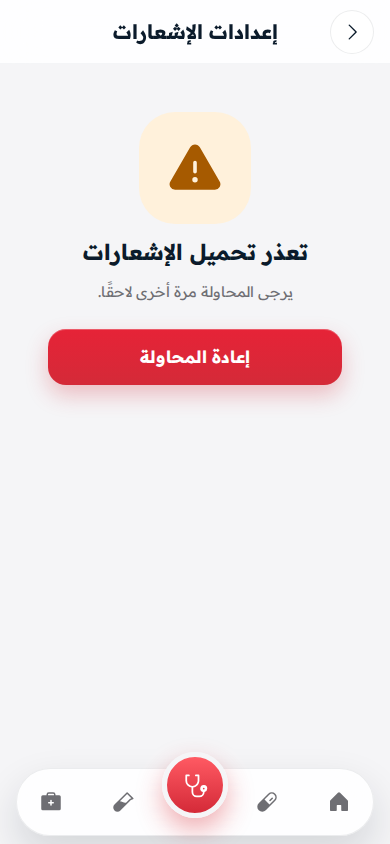
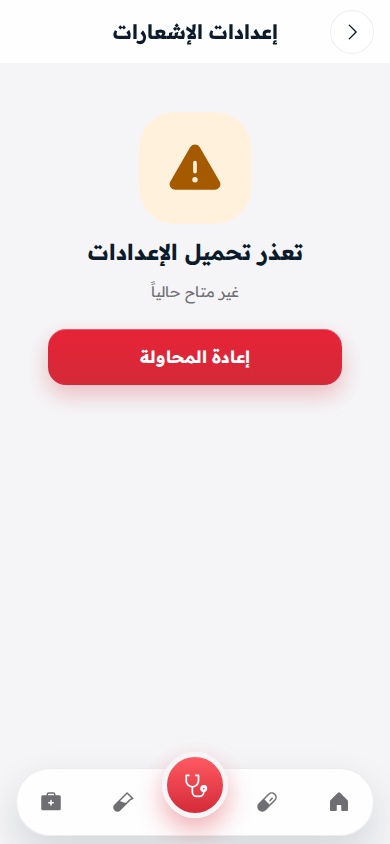
[DESIGN] Batch 0: runtime check results, Needs review (98), settings error copy, PROGRESS
Claude-Session: https://claude.ai/code/session_01DQMSZ7GTMCFr1YrcwBfzDM

Changed region(s): [[0.2154, 0.2773, 0.8, 0.3697]]

diff --git a/patient-web/app/[locale]/notifications/settings/page.tsx b/patient-web/app/[locale]/notifications/settings/page.tsx
@@ -29,7 +29,7 @@ export default async function NotificationSettingsPage({ params }: Props) {
   const back = `/${locale}/notifications`;
   const failed = (
     <CoreShell locale={locale} title={s("title")} backHref={back} width="narrow">
-      <RetryErrorState title={t("unavailableTitle")} body={t("unavailable")} retryLabel={routeState("retry")} />
+      <RetryErrorState title={s("unavailableTitle")} body={s("unavailable")} retryLabel={routeState("retry")} />
     </CoreShell>
   );
   let response: Response;

diff --git a/docs/design/WIRING_REPORT.md b/docs/design/WIRING_REPORT.md
@@ -1,10 +1,10 @@
 # Wiring report — screens ↔ API, and design foundation
 
-> Generated by `node tools/design/screen-inventory.mjs` at commit `2e2370b2`. Do not edit by hand.
+> Generated by `node tools/design/screen-inventory.mjs` at commit `a1f15da0`. Do not edit by hand.
 > Read at the start of every design session together with `PROGRESS.md` and `SCREEN_INVENTORY.md`. A screen is rebuilt on real API data only (handoff §1, §6): any row below that is not `OK` must be fixed or the UI element hidden — never faked.
 
 - **Unresolved calls (built from variables):** patient-app 0, patient-web 0 (section 3b)
-- **Needs review:** 91 open items (section 7)
+- **Needs review:** 98 open items (section 7)
 - **Mock / placeholder hits (heuristic):** 16, of which Batch 0: 0 (section 6)
 - **Per-screen element audits:** [`docs/design/audit/`](audit/) (`batch-0-web.md`, `batch-0-app.md`: every element of a screen against its board and its data source)
 
@@ -251,13 +251,14 @@ None found.
 
 ## 7. Needs review
 
-91 open items, merged from `docs/design/needs-review/*.json` (format in that folder's README). These are things an agent found while rebuilding or auditing a screen and could not settle from the client code. **The reviewer session verifies each one and fixes backend gaps; a design session only reports.** Per-screen element audits are in [`docs/design/audit/`](audit/).
+98 open items, merged from `docs/design/needs-review/*.json` (format in that folder's README). These are things an agent found while rebuilding or auditing a screen and could not settle from the client code. **The reviewer session verifies each one and fixes backend gaps; a design session only reports.** Per-screen element audits are in [`docs/design/audit/`](audit/).
 
 
 ### Batch 0 — patient-app
 
 | Screen | Element | file:line | What was found | What is suspected |
 |---|---|---|---|---|
+| `/` | GET /home/upcoming-appointment with no appointment | `backend/src/modules/home/home.controller.ts` | Runtime check against the seeded backend: the endpoint answers 200 with an empty body (not JSON, not null) when the patient has no upcoming appointment. The web dashboard copes; whether the app's apiFetch handles an empty 200 body without throwing was not run (the app was not executed). | A 200 with no body breaks clients that call res.json(). Suggest `null` or 204, and confirm apiFetch tolerates it. |
 | `/` | Next appointment card: doctor name | `backend/src/modules/home/home.service.ts:74` | getUpcomingAppointment reads the doctor name from provider_profiles with doctorName = prov?.name \|\| ''. The provider profile schema declares no top-level name (name_ar, name_en, display_name_ar, display_name_en: backend/src/schemas/provider-profile.schema.ts:25-26,215-216; the only 'name' is inside the facility roster sub-schema, line 144). The result is null, and Home hides the doctor line when it is null. The same field is read in getOffers (line 41) and the package search (lines 156) for provider names. | Unsure whether older documents hold a name field; by the schema the card never shows the doctor. Read display_name_ar / name_ar (backend). |
 | `/` | Home data blocks without a session | `patient-app/app/(tabs)/index.tsx:67` | Home calls 7 endpoints (GET /users/me/profile, /health/reminders, /nutrition/daily-summary, /maternity/profile, /mental-health/mood?days=1, /health/vitals/summary, /home/upcoming-appointment). All are JWT-only (JwtAuthGuard, no @Public: e.g. backend/src/modules/home/home.controller.ts:5, health.controller.ts:8) and the guard answers 401 'Missing token' without a token (backend/src/common/auth.guard.ts, the !token branch). The splash sends everyone to /(tabs) without creating a session; a guest session exists only after the Welcome guest link (POST /auth/guest, welcome.tsx:71), a login or a register. | On a first launch every Home call fails, the warning banner 'تعذر تحميل بعض بيانات اليوم' shows, and no greeting name, reminder, appointment or records appear. Only /content/home (public) works. Needs the launch routing decision (silent guest session, or send the user to Welcome). |
 | `/` | Greeting card name (and avatar initial) | `patient-app/app/(tabs)/index.tsx:95` | The name is taken from GET /users/me/profile fields full_name, name, display_name. The endpoint returns the patient_profiles document (backend/src/modules/users/users.service.ts:95-101). The schema has full_name (backend/src/schemas/patient-profile.schema.ts:22) but no name or display_name, and registration creates that document with only user_id (backend/src/modules/auth/auth.service.ts:549, also 837 and 1108 for guest and social), so the name typed at registration is stored on the user record only. GET /users/me/display returns display_name from the user record (users.service.ts:123-132) but Home does not call it. | A registered patient is greeted without a name until the profile is edited elsewhere. Read the name from GET /users/me/display (display_name), or have registration write full_name to the patient profile (backend). |
@@ -279,6 +280,7 @@ None found.
 | `/login` | Submit button: failed login clears the stored session | `patient-app/utils/api.ts:95` | login.tsx calls POST /auth/login through utils/api.ts apiFetch without skipAuth. A 401 from the login itself (wrong password: 'Invalid credentials', backend auth.service.ts:564-571) runs clearStoredSession(), which deletes the access token, refresh token and user data from SecureStore (utils/api.ts:37-41,95-97). The request also carries the existing guest token as Authorization. | A mistyped password signs out the current guest session. Pass skipAuth: true for /auth/login, /auth/guest and /auth/social-login. |
 | `/notifications` | Row title and body language | `backend/src/modules/notifications/notifications.service.ts:407` | listForUser resolves title_key and body_key with lang = user?.lang \|\| 'ar'. The access token carries no lang (signToken, backend/src/modules/auth/auth.service.ts:51), nothing else sets req.user.lang (grep), and the app sends no language to GET /notifications. The notifications screen comment says the text is 'already in the user's language'. | Every notification is returned in Arabic whatever the app language. Pass the app language (query or Accept-Language) to the endpoint, or put lang in the session. |
 | `/notifications` | Row icon and filter group by notification type | `backend/src/modules/notifications/notifications.service.ts:694` | The client maps type to icon and filter group (src/utils/notificationsFeed.ts:39-49). The backend writes appointment created, confirmed and completed (lines 694, 704, 716) and report-ready (667) with type INFO, although the enum has APPOINTMENT and PRESCRIPTION (backend/src/common/enums.ts:172-181). The client's 'labs' key is not in the enum, so it never occurs. | Appointment notifications show the info icon and land in the 'تحديثات' chip instead of 'طبي'. Write the specific type in the backend, and drop 'labs' from the map. |
+| `/notifications` | Populated states not exercised | `docs/design/audit/runtime-batch-0-app.md` | The seeded patient has no notifications, reminders, mood entries or appointments, so the runtime check only shows these lists in their empty state (all 2xx). The populated rendering with real rows was not verified at runtime. | The reviewer's seed should add at least one notification, reminder and appointment for the test patient so populated states can be checked. |
 | `/notifications` | GET /notifications without a session | `patient-app/app/notifications/index.tsx:114` | The controller is JWT-only (backend/src/modules/notifications/notifications.controller.ts:9). Without a token the call answers 401 and the screen shows 'تعذر تحميل الإشعارات' with a retry. | Same cause as the Home and Search items: no session after the splash. The error state says the connection is the problem. |
 | `/notifications` | Row tap: routes the app cannot translate do nothing | `patient-app/app/notifications/index.tsx:152` | openNotif pushes only when translateBackendRoute(n.route) returns a target (src/hooks/usePushNotifications.ts:33-77); otherwise the row is marked read and nothing happens (no inbox fallback, unlike routeFromNotificationData). Routes the backend writes that the translator returns null for: /wallet/hub (backend/src/modules/notifications/notifications.service.ts:1093,1120), /family/permission-request (956), /reports/:id for 'report ready' (667), /community/post-detail?id=... (1046; the query is stripped and the path is not in the verbatim list), and the engagement nudges' generic /${kind}/${ref_id} (backend/src/modules/engagement/engagement.controller.ts:135). Two of those targets have an app file (family/permission-request, community/post-detail); /wallet/hub and /reports/:id have none (route check over app/). | Tapping these notifications only marks them read. Add the routes to the translator, create the wallet screen or change the backend route. |
 | `/notifications` | Row tap: results and reports param name | `patient-app/src/hooks/usePushNotifications.ts:63` | /health/results/:id and /health/reports/:id are translated to /reports/view-report with params {reportId}. app/reports/view-report.tsx reads params.id (lines 65-71) and shows its error state when it is missing. | Wrong param name: lab-result and report notifications open an error screen. Pass id. |
@@ -299,6 +301,7 @@ None found.
 
 | Screen | Element | file:line | What was found | What is suspected |
 |---|---|---|---|---|
+| `/` | Doctor names in the seeded data | `backend/src/modules/seed/seed.data.ts:76` | GET /doctors on the seeded backend returns records with name_en: null (the seed sets Arabic names only). | English and other locales fall back to the Arabic name. Seed data gap, not a screen bug. |
 | `/` | Error state of every Batch 0 route (error.tsx) | `patient-web/app/[locale]/error.tsx:9` | Inline style attributes with raw colours (#FDFDFC, #E8EDEE, #FF4D5A, #1E332E, #6B7C6E, #5FD9B3, rgba values) and backdrop blur on <main>, the card, the icon, the title and both buttons. | Breaks the identity rule (colours not from tokens) and QUALITY_STANDARDS §0/§4 (no style attributes). proxy.ts:40-53 sets style-src 'self' 'nonce-…' in production, so the inline styles are probably refused and the error card renders unstyled. Needs the same token-based treatment as the new screens. |
 | `/` | Maintenance state and footer copy | `patient-web/app/[locale]/page.tsx:67` | The title and fallback message are ar/en literals; the message shown is app_versions.apps.web.message_en first, then message_ar, whatever the locale (public-config-server.ts:10-14). Only `/` honours the flag (login, dashboard, search do not). The layout footer links (layout.tsx:99-103) are ar/en literals too. | Arabic visitors see the English admin message when both are set; ur/hi/bn/fil get English/Arabic only; maintenance does not block the rest of the web app. |
 | `/` | Hero search form (also on /dashboard) and the JSON-LD SearchAction | `patient-web/components-next/home/home-parts.tsx:44` | <form action='/{locale}/search' method='get'> sends ?q=…, but the search page (search/page.tsx:9-15, search-client.tsx:86 `useState("")`) never reads searchParams and the route requires a session (requirePatientAccess). The SearchAction target in page.tsx:86-90 is the same URL. | The home search box cannot run the search the user typed, and on the public home a signed-out visitor is sent to /login with the text lost. The search page should read q (and be public or carry the query through login). |
@@ -310,6 +313,7 @@ None found.
 | `/dashboard` | Next-appointment card: time and status | `backend/src/modules/home/home.service.ts:76` | getUpcomingAppointment returns {id, date:'YYYY-MM-DD', doctorName, type, time} where time is toLocaleTimeString('ar-EG') in the server's time zone (home.service.ts:55-83). The web parser (lib/api/dashboard.ts:24-29) takes `date` as the timestamp, so new Date('2026-10-06') is UTC midnight and home-parts.tsx:63-68 prints a time from it; `status` is read from a field the endpoint never returns; `time` and `type` are ignored. | The card shows an invented time (midnight in some zone) and the day can shift with the time zone. The endpoint should return the ISO slot_start (plus status and service_type) and the web should format it in the page locale / Asia/Riyadh. |
 | `/dashboard` | Sign-out (missing on all home-shell and core-shell screens) | `patient-web/app/[locale]/layout.tsx:90` | The only sign-out (SessionActions → POST /api/auth/logout, session-actions.tsx:12-18) sits in the layout .topbar, which globals.css:575,582,590 hides on the auth, home and core shells. HomeShell/CoreShell draw no sign-out; the avatar goes to /profile. Backend POST /auth/logout (backend auth.controller.ts:277-286) only clears an admin cookie and does not revoke the refresh session. | A signed-in user has no sign-out on /, /dashboard, /search, /notifications, /notifications/settings. Confirm /profile offers one (not audited here) or add it; the backend logout should also revoke the refresh session. |
 | `/dashboard` | Hero title (patient name) | `patient-web/lib/api/dashboard-server.ts:5` | The name comes from GET /users/me/profile, which returns the whole patient profile document (allergies, chronic diseases, national id…), read as name\|full_name\|fullName (dashboard.ts:15). Only registerPatientContract writes full_name on the patient profile (backend auth.service.ts:473-478); the other creation paths create it with user_id only (auth.service.ts:549, 837, 1108), and getPatientProfile creates an empty profile when missing (backend users.service.ts:95-101). The authoritative name is users.full_name, served as display_name by GET /users/me/display (users.service.ts:123-133). | Guest, social-login and legacy-register users see the generic title instead of their name, and the dashboard fetches the full medical profile only for a display name. It should use /users/me/display (minimal DTO). |
+| `/dashboard` | Upstream failure handling | `patient-web/lib/api/dashboard-server.ts:5` | Runtime check with every data GET answering 500: /dashboard still renders (greeting without a name, no appointment card) with no error or retry state, because both calls swallow the failure. The same happens on / (home) for doctors and config. /notifications and /notifications/settings do show the board's error state with retry. | Silent degradation matches the 'hide missing data' rule, but a total outage looks like an account with no data. Owner to decide whether /dashboard should show the error state when its profile call fails. |
 | `/forgot-password` | Submit → success message | `patient-web/components-next/forgot-password-form.tsx:17` | After a 2xx the form shows 'Recovery requested…' only. Backend forgotPatientPassword (backend auth.service.ts:376-398) e-mails 'Your Nabdah Plus password-reset token is <43-char token>. It expires in 60 seconds.' (a plain token, no link). No page, button or redirect links to /password-reset (grep: only robots.ts names it). A phone-only account without an e-mail gets nothing while the UI says success. | The reset flow is a dead end: the user must open /password-reset by hand and paste a token within 60 s. Needs an e-mailed link to /{locale}/password-reset?token=… (with the page reading it) or an on-screen next step, and a longer lifetime. |
 | `/login` | Identifier matching for phone numbers (backend) | `backend/src/modules/auth/auth.service.ts:560` | login() looks a phone up as {phone: identifier} (raw) and an email lower-cased; register/OTP/forgot use normalizeOtpIdentifier = trim + lower-case only (auth.service.ts:176-178, 442). Nothing maps '05…', '+9665…', '009665…' to one form. | The same person typing the number in another format cannot sign in/reset, or can create a duplicate account. Backend gap: no E.164 normalisation and no uniqueness on a normalised phone. |
 | `/login` | Language menu items (LocaleSelector); same component on every Batch 0 screen | `patient-web/components-next/locale-selector.tsx:48` | Each of the 6 language links has href `/${locale}` (that locale's home page). The component only receives `current`; it does not use the current path or query. | Switching language on /login, /register, /otp?identifier=…, /search, /notifications/settings or /dashboard drops the page and lands on the other language's home page. It should keep the current path (swap the locale segment). |
@@ -323,6 +327,7 @@ None found.
 | `/notifications` | Notification title and body language (backend) | `backend/src/modules/notifications/notifications.service.ts:407` | listForUser resolves title/body with `user.lang`; `user` is the decoded JWT, which carries no lang (backend auth.service.ts:52, common/auth.guard.ts:118), so the language is always 'ar'. The web sends no locale. | Notification texts are Arabic in all six web locales. The backend should use the stored preferred_lang or a locale parameter. |
 | `/notifications` | Notification rows and unread dot | `patient-web/app/[locale]/notifications/page.tsx:93` | Rows are <li> with no link, and there is no mark-read or mark-all control; the backend has POST /notifications/:id/read and /read-all (backend notifications.controller.ts:38-48) and each notification carries `action.route`. The unread dot (read === false) can therefore never clear from the web. Notifications.notice ('This list is view-only…') exists in all 6 locales but is not rendered. | Unread state is permanent on web and nothing is tappable. Confirm whether view-only is intended (then say so or hide the dot) or wire read/read-all through the proxy (needs allow-list entries) and open action.route. |
 | `/notifications/settings` | The 9 switches (6 categories, 3 channels) | `backend/src/modules/users/users.service.ts:269` | Toggles PATCH {categories\|channels:{key:bool}} and are stored on the patient profile document (notification_settings). Delivery reads notification_settings from the users collection (backend notifications.service.ts:129-130: quiet_hours only; engagement.controller.ts:105-112: categories.suggestions and quiet_hours) and never consults channels.push/email/sms or the six categories; SMS is retired (notifications.service.ts:162,361) yet shown with default true. | None of the switches changes what the patient receives; the screen saves preferences nothing reads. Delivery must read patient_profiles.notification_settings and skip disabled categories/channels; the SMS switch should be hidden. |
+| `/notifications/settings` | Error state title (fixed in this PR) | `patient-web/app/[locale]/notifications/page.tsx` | Runtime check (error scenario): the settings page showed the notifications list's title 'تعذر تحميل الإشعارات'. Fixed: it now uses NotificationSettings.unavailableTitle in all six locales. | None left; listed so the reviewer knows the copy key was added. |
 | `/onboarding` | Whole screen (entry and outcome) | `patient-web/app/[locale]/onboarding/page.tsx:11` | No link in the web points to /onboarding (grep over app, components-next, lib); /welcome is reached only from the login back button and the onboarding screens; finishing onboarding stores nothing (no flag, no API call). | Onboarding / language / permissions are unreachable in normal navigation and their outcome is unused. Confirm the intended entry (e.g. first visit) before spending design effort on them. |
 | `/onboarding` | Slides, buttons and labels | `patient-web/app/[locale]/onboarding/page.tsx:17` | Slide titles/bodies are ar/en literals (lines 17-27) as are the carousel labels and buttons Next/Continue/Skip (onboarding-carousel.tsx:18-37), the language step (onboarding/language/page.tsx:20-32), the permissions step (onboarding-permissions-client.tsx:33-55) and the back label and hero text of the frame (auth-layout.tsx:22-25,48). Slide 2 ('Book in minutes') uses the lab icon and slide 3 ('Track your health') the pharmacy icon. | ur/hi/bn/fil users get English. Move to messages. The icon/text pairing of slides 2-3 should be checked against the board. |
 | `/onboarding/language` | Continue button (also onboarding-carousel.tsx:33 and onboarding-permissions-client.tsx:54) | `patient-web/app/[locale]/onboarding/language/page.tsx:32` | A <Link> wraps <Button>, which renders a <button> (ui-generated/components/Button.tsx). | Interactive element nested in an anchor (axe nested-interactive, two tab stops, the button's own click does not navigate). The a11y gate is ≥95. |
@@ -335,11 +340,13 @@ None found.
 | `/register` | Guest → account conversion (submit with a phone number) | `backend/src/modules/auth/auth.service.ts:876` | For a guest with a phone-like identifier the form posts {full_name, phone, password} to /api/auth/convert-guest (strict schema, no consents; register-form.tsx:60-64). convertGuest sets full_name/phone/password and is_guest=false without any OTP proof of the phone and without recording legal consent, and does not update the patient profile full_name. The form still requires the terms checkbox. | A guest can claim any unregistered phone number without verification; the terms acceptance is neither sent nor stored. After success the form shows the 'converted' text in the red error style and goes to /. |
 | `/register` | Copy kept outside messages/*.json (register, otp, forgot-password, password-reset, welcome) | `patient-web/components-next/register-form.tsx:9` | The copy of these five screens lives in component-local maps (register-form.tsx:9-16, otp-screen.tsx:9-16, forgot-password-form.tsx:9-16, password-reset-form.tsx:7, auth-welcome.tsx:10-17), not in messages/*.json. /register and /otp titles are ar/en ternaries (register/page.tsx:13, otp/page.tsx:11); /forgot-password, /password-reset and /welcome use the literal 'Nabd Plus' (page.tsx:9). auth-welcome copy keys brand, body, social, blocked, language are never rendered. | Translation tooling and key-parity checks cannot see these strings; the titles are not localised for ur/hi/bn/fil and not screen-specific. |
 | `/register` | Consent policy ids and versions sent on registration | `patient-web/components-next/register-form.tsx:18` | policy_id/version come from NEXT_PUBLIC_TERMS_POLICY_ID/_VERSION and NEXT_PUBLIC_PRIVACY_POLICY_ID/_VERSION with defaults 'terms'/'v1' and 'privacy'/'v1' (lines 18-23, 45-48). The BFF getRequiredConsents() (app/api/auth/register/route.ts:16-29) reads NABD_* env with the same defaults and only checks they are non-empty (always true); the backend only asserts strings (backend auth.service.ts:445-458). | Consent ids/versions are not taken from real policy documents, so the stored acceptance cannot track a policy change and is whatever the client sends. Needs a current-policies source (endpoint or server-side version) and a BFF/backend comparison. |
+| `/register` | Session probe on load | `patient-web/components-next/register-form.tsx:36` | Runtime check: an anonymous visitor's GET /api/auth/session answers 401 (app/api/auth/session/route.ts returns 401 when there is no cookie), so the browser console shows two 'Failed to load resource: 401' errors on every /register load. The page itself renders and works. | A 401 for 'not signed in' is expected data, not an error. The BFF could answer 200 {authenticated:false} for this probe, or the form could read the guest state another way. BFF contract change, so left to the reviewer. |
 | `/register` | Submit error messages (account may already exist) | `patient-web/components-next/register-form.tsx:78` | Backend registerPatientContract creates the user and patient profile and then calls requestPatientOtp (backend auth.service.ts:473-481), which can throw 503 otp_channel_unavailable (e.g. phone identifier with SMS disabled and no e-mail, deliverOtp:199-224) or 429. The BFF passes the status; the form shows ≥500 as 'Registration is unavailable. No account was created.' and every 4xx (including the 409 identifier_already_registered that a retry gets) as 'Review the fields…'. | The user is told no account was created when it was, and the retry is told to review the fields. Needs 409 mapped to 'already registered — sign in' and the OTP-send failure not reported as a registration failure (backend: return registered:true with otp_sent:false, or make create+send atomic). |
 | `/search` | Doctor result sub-line (specialty) | `patient-web/app/[locale]/search/search-client.tsx:62` | sub is hidden when it matches ^[a-z][a-z0-9]*(_[a-z0-9]+)*$ (the 'code' filter). For doctors the API's sub/subEn is d.specialty (backend home/home.service.ts:172-177), a snake_case slug. | Every doctor result is shown without its specialty (the filter hides the slug) — the useful field is lost. The backend should send the specialty display name in sub/subEn. |
 | `/search` | Intent call before the results list | `patient-web/app/[locale]/search/search-client.tsx:103` | Before every results call the page POSTs /api/search/intent and, whenever canonical_path is not /{locale}/search, does window.location.assign(path) — there is no confidence check although the comment says 'confident actionable intent'. Backend extractIntent (backend search-intent/search-intent.service.ts:113-216) returns /doctors/<specialty>/<city> (city defaults to riyadh), /medicine-catalog for any medicine word (e.g. 'panadol'), /diagnostics/labs, /diagnostics/radiology, /home-nursing/<city>, with confidence 0.85-0.95. | Searching a drug, specialty, lab or radiology word never shows the results list (the Medicines/Doctors/Tests sections are unreachable for those queries) and the typed text is lost; every query also costs two requests. Needs a threshold or showing results first. |
 | `/search` | Section links of the frame (CoreShell) vs HomeShell | `patient-web/components-next/core/core-shell.tsx:49` | Same five sections, different targets and labels. HomeShell: Pharmacy→/c, Consultations→/consultations/doctors, Labs & radiology→/diagnostics, Nursing→/nursing/catalog, Home→/dashboard or /. CoreShell: Pharmacy→/pharmacy (a redirect to /c), Doctors→/consultations/doctors, Diagnostics→/diagnostics/labs, Nursing→/home-care, Home→/ (lines 49-63 vs home-shell.tsx:40-45). | Nursing resolves to two different pages (/nursing/catalog vs /home-care) and Labs to two (/diagnostics vs /diagnostics/labs) depending on the screen; the canonical targets need confirming. |
 | `/search` | Results call: query length cap | `patient-web/lib/api/patient-allowlist.ts:76` | GET /home/search is allowed only if path+search matches ^/home/search\\?q=[^&]{1,120}$; the proxy tests request.nextUrl.search (the percent-encoded query: an Arabic letter is 6 characters, a space 3) (app/api/patient/[...path]/route.ts:13). The search input has no maxLength (search-client.tsx:203). | An Arabic query longer than about 20 letters gets the proxy's 404 and the page shows 'Search is unavailable'. Raise the cap or cap the input. |
+| `/services` | Redirect target /consultations/doctors: inline style attribute | `patient-web/app/[locale]/consultations/doctors/page.tsx` | Runtime check: /services redirects to /consultations/doctors (a Batch 3 screen), and loading it logs 'Refused to apply inline style (style-src-attr)' under the nonce CSP, twice. Source element not identified (document line 9). | A style={{…}} in that page or one of its components, blocked in production (F68). Not in Batch 0's files; to be cleared in the batch that rebuilds it. |
 | `/welcome` | Continue as guest button | `patient-web/components-next/auth-welcome.tsx:38` | On success pushes /{locale} (public home); on failure pushes /{locale}/login?guest=blocked. LoginForm never reads searchParams, so the parameter does nothing, and /login's own guest button goes to /dashboard. | A failed guest start is silent (the user lands on /login with no message) and the two guest buttons route differently. Needs the login form to show a message for guest=blocked and one agreed destination. |
 
 ### Batch 1 — patient-app

diff --git a/docs/design/PROGRESS.md b/docs/design/PROGRESS.md
@@ -67,6 +67,7 @@ _Last updated: 2026-10-05 (components 1/4–4/4, lint gates and the PROGRESS upd
 
 - **CSP step, PR [#271](https://github.com/obaid08642-ops/new/pull/271)** (branch `design/components-csp`): patient-web's CSP refuses `style` attributes, so every shared web component is styled by class (`packages/ui/components/components.css`). Gallery pixel-identical outside the FIcon boxes; tests read the sheet through `tests/support/resolve-css.ts`. Merge before #285.
 - **Batch 0, PR [#285](https://github.com/obaid08642-ops/new/pull/285)** (branch `design/batch-0`, stacked on #271), waiting for owner approval.
+  - **Per-batch audit (owner, 2026-10-05), inside #285:** element audits `audit/batch-0-web.md` (393 elements, 14 screens) and `audit/batch-0-app.md` (16 screens); runtime check `audit/runtime-batch-0-web.md` (15 routes x normal/empty/error, backend and web through `tools/design/fault-proxy.mjs`; 14 of 15 clean, `/register` logs the expected 401 of its session probe) and `audit/runtime-batch-0-app.md` (every GET the app screens call, with patient / guest / no session; 0 failures); `WIRING_REPORT.md` now has 0 unresolved calls (was 160 web + 10 app), the 18 static web screens classified, a mock scan (0 hits in Batch 0) and **98 Needs review items** (`needs-review/*.json`, backend gaps reported and not fixed). Colours: route error/not-found rebuilt from the board state components (zero raw colours), `theme-color` generated from the tokens, no Batch 0 file left in the raw-colour baseline (8772 -> 8748), `client-token-sync` 928 -> 927.
   - **Sign-in family** (web and app): Welcome, Login, Register, email code, forgot and reset password, AuthWeb. The ten login-review defects are gone; the one-time-code login link is removed; tablet centred at 440. Social sign-in: app shows Apple (iOS only, official button), Google, X, Snapchat; web shows Google only (see Blockers).
   - **Onboarding** (web and app), **Home and Dashboard** (web), **Home, tab bar and Services** (app), **Search, Notifications, Notification settings** (web and app).
   - Plain-language sweep: 130 strings in each of 6 locales, plus hard-coded web and app strings.

diff --git a/docs/design/audit/runtime-batch-0-web.md b/docs/design/audit/runtime-batch-0-web.md
@@ -1,8 +1,8 @@
 # Runtime check, Batch 0 (patient-web)
 
 Generated by `node tools/design/runtime-check.mjs` against http://localhost:3100 (locale `ar`, 390 px) talking to a seeded backend.
-Scenarios: **normal** = real responses; **empty** = every browser-side `/api/**` GET answered `200 []`; **error** = every browser-side `/api/**` GET answered `500`.
-Server-rendered fetches are not visible to the browser, so for the normal scenario the backend's HTTP log is read as well (column "Server calls"). Empty/error injection can only reach browser-side requests; a route whose data is fetched on the server is marked in the summary.
+Scenarios: **normal** = real responses; **empty** = every data GET answered `200 []`; **error** = every data GET answered `500`. Injected by `tools/design/fault-proxy.mjs` between patient-web and the backend, so server-rendered fetches are covered too.
+Server-rendered fetches are not visible to the browser, so for the normal scenario the backend's HTTP log is read as well (listed as "Server" below).
 
 | Route | Session | Normal | Empty | Error |
 |---|---|---|---|---|

diff --git a/docs/design/needs-review/README.md b/docs/design/needs-review/README.md
@@ -12,6 +12,7 @@ Each session writes its own file so parallel sessions never conflict:
 |---|---|
 | `batch-0-web.json` | the patient-web Batch 0 audit (explained in `../audit/batch-0-web.md`) |
 | `batch-0-app.json` | the patient-app Batch 0 audit (explained in `../audit/batch-0-app.md`) |
+| `batch-0-runtime.json` | the Batch 0 runtime check (`../audit/runtime-batch-0-web.md`, `../audit/runtime-batch-0-app.md`) |
 | `tooling.json` | the inventory tooling: findings of the mock scan and of the screens-with-no-API-calls review |
 
 Use `batch-<n>-<app>.json` for later batches. The per-screen element audits that explain each entry live in `../audit/` (`batch-0-web.md`, `batch-0-app.md`).

diff --git a/docs/design/SCREEN_INVENTORY.md b/docs/design/SCREEN_INVENTORY.md
@@ -1,6 +1,6 @@
 # Screen inventory — patient-app + patient-web
 
-> Generated by `node tools/design/screen-inventory.mjs` at commit `2e2370b2`. Do not edit by hand: re-run the script after routes or API calls change (`--check` fails when this file is stale).
+> Generated by `node tools/design/screen-inventory.mjs` at commit `a1f15da0`. Do not edit by hand: re-run the script after routes or API calls change (`--check` fails when this file is stale).
 > Source of truth for the rebuild order: `DESIGN_HANDOFF_FINAL.md` §4. Progress per batch lives in `PROGRESS.md`; endpoint health in `WIRING_REPORT.md`.
 
 **Columns**
